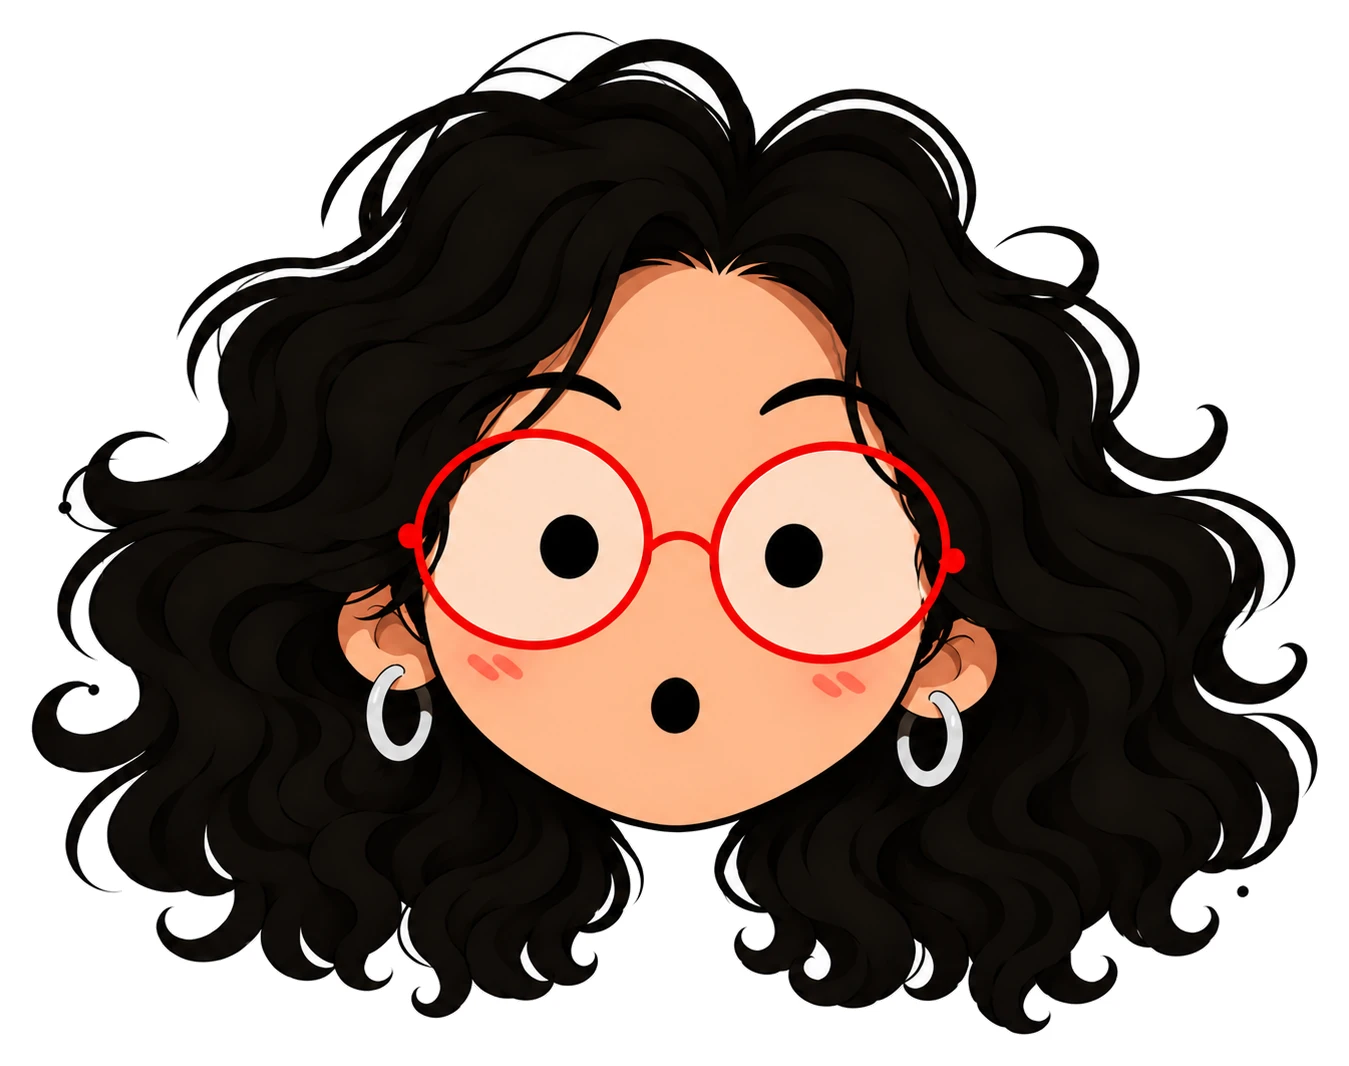
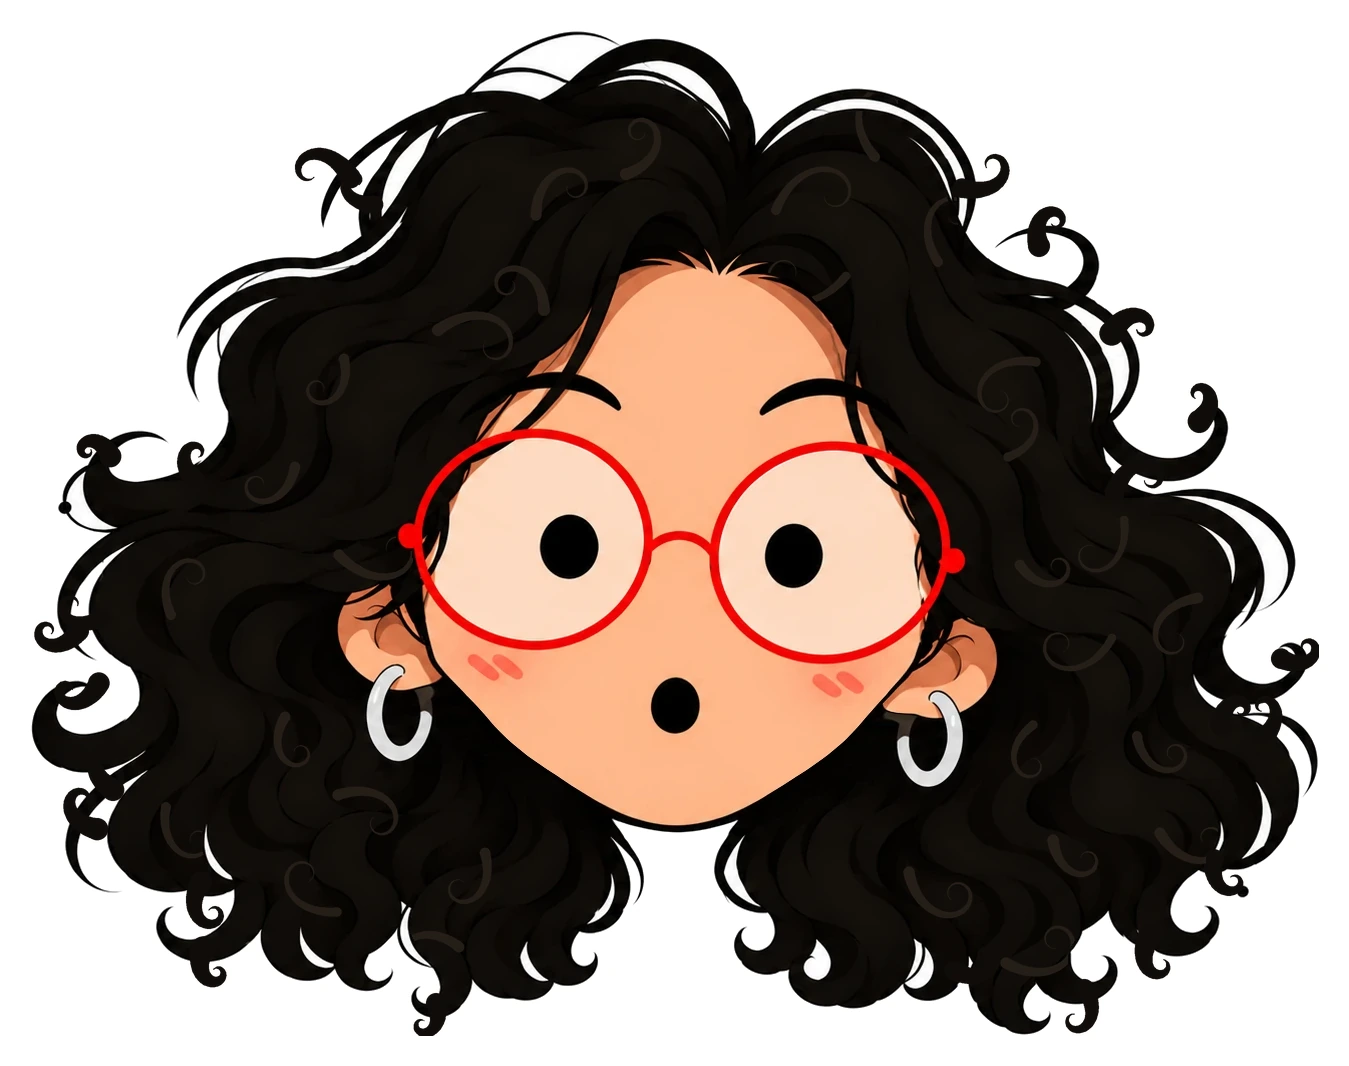
About film: site font drawn tall, more about me, louder sounds and a music bed; slimmer cheeks and curlier hair on the character and cursor
Claude-Session: https://claude.ai/code/session_01LQxJFUE3VEi95UPJydaojn

diff --git a/js/main.js b/js/main.js
@@ -85,14 +85,14 @@
         if (!ready()) return; var t = ctx.currentTime;
         var notes = [659.25, 783.99, 880, 987.77, 1174.66, 987.77, 880, 783.99];
         this._rn = ((this._rn || 0) + 1) % notes.length; var f = notes[this._rn];
-        tone(t, 130, 38, 0.3, 0.2, 'sine');
+        tone(t, 210, 72, 0.26, 0.32, 'sine'); tone(t, 105, 48, 0.3, 0.22, 'triangle');
         var src = ctx.createBufferSource(); src.buffer = noiseBuf;
         var lp = ctx.createBiquadFilter(); lp.type = 'lowpass'; lp.frequency.setValueAtTime(2600, t); lp.frequency.exponentialRampToValueAtTime(220, t + 0.22);
-        var g = ctx.createGain(); g.gain.setValueAtTime(0.08, t); g.gain.exponentialRampToValueAtTime(0.0001, t + 0.24);
+        var g = ctx.createGain(); g.gain.setValueAtTime(0.16, t); g.gain.exponentialRampToValueAtTime(0.0001, t + 0.24);
         src.connect(lp); lp.connect(g); g.connect(out); src.start(t, Math.random() * 0.5); src.stop(t + 0.26);
         var o = ctx.createOscillator(), o2 = ctx.createOscillator(), ng = ctx.createGain();
         o.type = 'sine'; o.frequency.value = f; o2.type = 'triangle'; o2.frequency.value = f * 2.005;
-        ng.gain.setValueAtTime(0, t + 0.02); ng.gain.linearRampToValueAtTime(0.03, t + 0.03); ng.gain.exponentialRampToValueAtTime(0.0001, t + 0.45);
+        ng.gain.setValueAtTime(0, t + 0.02); ng.gain.linearRampToValueAtTime(0.07, t + 0.03); ng.gain.exponentialRampToValueAtTime(0.0001, t + 0.45);
         o.connect(ng); o2.connect(ng); ng.connect(out); o.start(t + 0.02); o2.start(t + 0.02); o.stop(t + 0.5); o2.stop(t + 0.5);
       },
       /* the whoosh: air sweeping past you from one side to the other as the word flies in —
@@ -103,7 +103,7 @@
         var pan = ctx.createStereoPanner ? ctx.createStereoPanner() : null;
         if (pan) { pan.pan.setValueAtTime(-0.85 * sd, t); pan.pan.linearRampToValueAtTime(0.85 * sd, t + d); pan.connect(out); }
         var dest = pan || out;
-        [[0.7, 380, 5200, 0.16], [7, 900, 4200, 0.05]].forEach(function (L) {
+        [[0.6, 420, 6000, 0.42], [6, 1000, 4800, 0.12], [1.2, 2400, 9000, 0.1]].forEach(function (L) {
           var src = ctx.createBufferSource(); src.buffer = noiseBuf;
           var bq = ctx.createBiquadFilter(); bq.type = 'bandpass'; bq.Q.value = L[0];
           bq.frequency.setValueAtTime(L[1], t); bq.frequency.exponentialRampToValueAtTime(L[2], t + d);
@@ -294,21 +294,25 @@
     var endWords = words ? $$('span', words) : [];
 
     /* --- the intro line, split into words so it can write itself --- */
-    var line = $('#filmLine'), fws = [];
-    (function split(el) {
+    var fws = [], fws2 = [];
+    function split(el, into) {
       [].slice.call(el.childNodes).forEach(function (nd) {
         if (nd.nodeType === 3) {
           var frag = document.createDocumentFragment();
           nd.textContent.split(/(\s+)/).forEach(function (bit) {
             if (!bit) return;
             if (/^\s+$/.test(bit)) { frag.appendChild(document.createTextNode(bit)); return; }
-            var sp = document.createElement('span'); sp.className = 'fw'; sp.textContent = bit; frag.appendChild(sp); fws.push(sp);
+            var sp = document.createElement('span'); sp.className = 'fw'; sp.textContent = bit; frag.appendChild(sp); into.push(sp);
           });
           el.replaceChild(frag, nd);
-        } else if (nd.nodeType === 1) split(nd);
+        } else if (nd.nodeType === 1) split(nd, into);
       });
-    })(line);
+    }
+    if ($('#filmLine')) split($('#filmLine'), fws);
+    if ($('#filmLine2')) split($('#filmLine2'), fws2);
+    var chips = $$('#filmChips li');
 
+    var STRETCH = 1.5;
     function fit() {
       var W = screen.clientWidth, H = screen.clientHeight, narrow = W < 700;
       scenes.forEach(function (s) {
@@ -316,16 +320,16 @@
         probe.style.fontSize = '100px';
         var widest = Math.max.apply(null, [].map.call(probe.children, function (c) { return c.offsetWidth; }));
         var size = 100 * W * (narrow ? 0.9 : 0.84) / Math.max(1, widest);
-        size = Math.min(size, H * (ln > 1 ? (narrow ? 0.25 : 0.36) : (narrow ? 0.34 : 0.6)));
+        size = Math.min(size, H * (ln > 1 ? (narrow ? 0.25 : 0.36) : (narrow ? 0.34 : 0.6)) / STRETCH);
         ws.forEach(function (w) { w.style.fontSize = size.toFixed(1) + 'px'; });
       });
     }
 
     /* --- timing (ms) --- */
     var SC = REDUCED ? 1600 : 880;                 /* one reel word */
-    var T = { l1: 150, l2: 520, me: 1150, words: 1300, wordStep: 34, hl: 2300,
-              out: 6300, wipe: 6650, title: 6950, reel: 8300 };
-    if (REDUCED) T = { l1: 0, l2: 0, me: 0, words: 0, wordStep: 0, hl: 0, out: 6500, wipe: 6500, title: 6600, reel: 8200 };
+    var T = { l1: 150, l2: 430, me: 950, words: 1050, wordStep: 32, hl: 1900, words2: 2250, chips: 3050,
+              out: 8200, wipe: 8550, title: 8850, reel: 10150 };
+    if (REDUCED) T = { l1: 0, l2: 0, me: 0, words: 0, wordStep: 0, hl: 0, words2: 0, chips: 0, out: 8200, wipe: 8200, title: 8300, reel: 9900 };
     var REEL_END = T.reel + SC * n, TOTAL = REEL_END + 400;
 
     var raf = 0, t0 = 0, playing = false, done = false, steps = [], cur = -1, rushed = false, autoNext = true, userMoved = false;
@@ -334,7 +338,7 @@
 
     function reset() {
       film.classList.remove('f-l1', 'f-l2', 'f-me', 'f-hl', 'f-out', 'f-wipe', 'f-title', 'f-reel', 'f-end', 'f-play');
-      fws.forEach(function (w) { w.classList.remove('is-in'); });
+      fws.concat(fws2, chips).forEach(function (w) { w.classList.remove('is-in'); });
       endWords.forEach(function (w) { w.classList.remove('is-in'); });
       scenes.forEach(function (s, k) { s.classList.remove('is-on'); zs[k].style.transform = ''; imgs[k].style.transform = ''; });
       cur = -1; rushed = false; done = false;
@@ -350,7 +354,9 @@
     at(T.me, function () { film.classList.add('f-me'); SFX.pop(); });
     fws.forEach(function (w, k) { at(T.words + k * T.wordStep, function () { w.classList.add('is-in'); }); });
     at(T.hl, function () { film.classList.add('f-hl'); });
-    at(T.out, function () { film.classList.add('f-out'); });
+    fws2.forEach(function (w, k) { at(T.words2 + k * 28, function () { w.classList.add('is-in'); }); });
+    chips.forEach(function (c, k) { at(T.chips + k * 120, function () { c.classList.add('is-in'); SFX.tick(); }); });
+    at(T.out, function () { film.classList.add('f-out'); SFX.rush(0.3); });
     at(T.wipe, function () { film.classList.add('f-wipe'); SFX.rush(0.42); });
     at(T.title, function () { film.classList.add('f-title'); SFX.roll(); if (hud) hud.textContent = 'Anushree beyond designing is'; });
     at(T.reel, function () { film.classList.add('f-reel'); });
@@ -1839,6 +1845,7 @@
      ====================================================================== */
   (function () {
     var TRACKS = [
+      { src: 'assets/audio/fun.mp3', loop: 33.1, vol: 0.12, el: $('#about'), top: 0.55, bottom: 0.45 },
       { src: 'assets/audio/cinema.mp3', loop: 48.0, vol: 0.16, el: $('#filmsZone'), top: 0.75, bottom: 0.25 },
       { src: 'assets/audio/contact-soft.mp3', loop: 41.7391, vol: 0.2, el: $('#contact'), el2: $('#outro'), top: 0.65, bottom: 0.2 }
     ].filter(function (t) { return t.el; });

diff --git a/css/style.css b/css/style.css
@@ -1476,3 +1476,31 @@ body::after{content:"";position:fixed;inset:0;z-index:79;pointer-events:none;opa
 /* the box now has its own short heading */
 .box__h{margin:0;font-size:clamp(30px,3.6vw,56px);line-height:1;letter-spacing:-.045em;font-weight:700;color:var(--black)}
 .box__h em{font-weight:300;letter-spacing:-.03em}
+
+/* ===== Round 29 — the film uses the site's own font: Inter Tight, thin and drawn tall ===== */
+.vs__w,.ftitle__a,.fend__w{font-family:var(--sans)!important;font-weight:200!important;font-stretch:normal!important;font-variation-settings:normal!important;
+  text-transform:uppercase;letter-spacing:-.035em!important}
+.vs__w{transform:scaleY(1.5);transform-origin:50% 50%;line-height:.82!important}
+.vs__w--o{-webkit-text-stroke:1.1px rgba(255,255,255,.95)}
+.ftitle__a{display:inline-block;line-height:.8!important}
+.ftitle__a{transform:translate3d(0,40px,0) scaleY(1.5) scale(.96)}
+.f-title .ftitle__a{transform:scaleY(1.5)}
+.ftitle__b{margin-top:clamp(40px,7vh,70px)}
+.fend__w{font-size:clamp(26px,3.8vw,58px);line-height:1;gap:22px 22px}
+.fend__w span{display:inline-block;transform:translate3d(0,16px,0) scaleY(1.4)}
+.fend__w span.is-in{transform:scaleY(1.4)}
+/* the About lines sit closer together */
+.fa__h{line-height:.94!important}
+.fa__ln{padding:0 0 .03em!important}
+.fa__h em{font-family:var(--sans)!important;font-weight:300!important;font-stretch:normal!important;font-variation-settings:normal!important;font-size:1em!important;letter-spacing:-.04em!important;color:rgba(255,255,255,.88)!important}
+/* more about me */
+.fa__txt{display:grid;gap:clamp(12px,1.8vh,18px);min-width:0}
+.fa__p2{margin:0;max-width:640px;font-size:clamp(15px,1.25vw,19px);line-height:1.45;letter-spacing:-.01em;color:#a9a9a9}
+.fa__chips{list-style:none;margin:clamp(4px,1vh,10px) 0 0;padding:0;display:flex;flex-wrap:wrap;gap:8px}
+.fa__chips li{padding:8px 13px 7px;border:1px solid rgba(255,255,255,.32);border-radius:999px;font-size:10.5px;letter-spacing:.12em;text-transform:uppercase;color:#fff;
+  opacity:0;transform:translate3d(0,10px,0) scale(.94);transition:opacity .35s ease,transform .55s cubic-bezier(.34,1.56,.64,1),background .3s}
+.fa__chips li.is-in{opacity:1;transform:none}
+.fa__chips li:first-child{background:#FF3038;border-color:#FF3038}
+.reduced .fa__chips li{opacity:1!important;transform:none!important}
+@media (max-width:700px){.fa__p2{font-size:14px}.fa__chips li{font-size:9.5px;padding:7px 10px 6px}.fa__row{flex-direction:row}.fa__me{width:54px}}
+@media (max-height:700px){.fa{padding-top:84px}.fa__row{margin-top:16px}}

diff --git a/index.html b/index.html
@@ -12,9 +12,9 @@
   <link rel="icon" type="image/png" href="assets/character/favicon.png">
   <link rel="preconnect" href="https://fonts.googleapis.com">
   <link rel="preconnect" href="https://fonts.gstatic.com" crossorigin>
-  <link href="https://fonts.googleapis.com/css2?family=Inter+Tight:wght@300;400;500;600;800;900&family=Noto+Serif+Display:wdth,wght@62.5..100,100..400&family=Space+Mono:wght@400;700&display=swap" rel="stylesheet">
+  <link href="https://fonts.googleapis.com/css2?family=Inter+Tight:wght@200;300;400;500;600;800;900&family=Space+Mono:wght@400;700&display=swap" rel="stylesheet">
   <link rel="preload" as="image" href="assets/character/anushree.webp">
-  <link rel="stylesheet" href="css/style.css?v=33">
+  <link rel="stylesheet" href="css/style.css?v=34">
   <script>
     /* decide before paint whether the intro plays */
     (function () {
@@ -97,7 +97,11 @@
           </h2>
           <div class="fa__row">
             <img class="fa__me" src="assets/character/anushree-sticker.webp" alt="" width="1349" height="1066" aria-hidden="true">
-            <p class="fa__p" id="filmLine">Hi, I'm Anushree — a Mumbai-based designer who is passionate about <strong>visual communication</strong>: ideas you can see, hold and remember.</p>
+            <div class="fa__txt">
+              <p class="fa__p" id="filmLine">Hi, I'm Anushree — a Mumbai-based designer who is passionate about <strong>visual communication</strong>: ideas you can see, hold and remember.</p>
+              <p class="fa__p2" id="filmLine2">I study Fashion Communication at NIFT Mumbai, and designed packaging as an intern at Nexibles.</p>
+              <ul class="fa__chips mono" id="filmChips"><li>Branding &amp; packaging</li><li>Illustration &amp; posters</li><li>Photography</li><li>Short films</li></ul>
+            </div>
           </div>
         </div>
         <div class="fwipe" aria-hidden="true"></div>
@@ -309,8 +313,8 @@
     <span class="cursor__label mono" id="cursorLabel"></span>
   </div>
 
-  <script src="js/dims.js?v=33"></script>
-  <script src="js/data.js?v=33"></script>
-  <script src="js/main.js?v=33"></script>
+  <script src="js/dims.js?v=34"></script>
+  <script src="js/data.js?v=34"></script>
+  <script src="js/main.js?v=34"></script>
 </body>
 </html>
